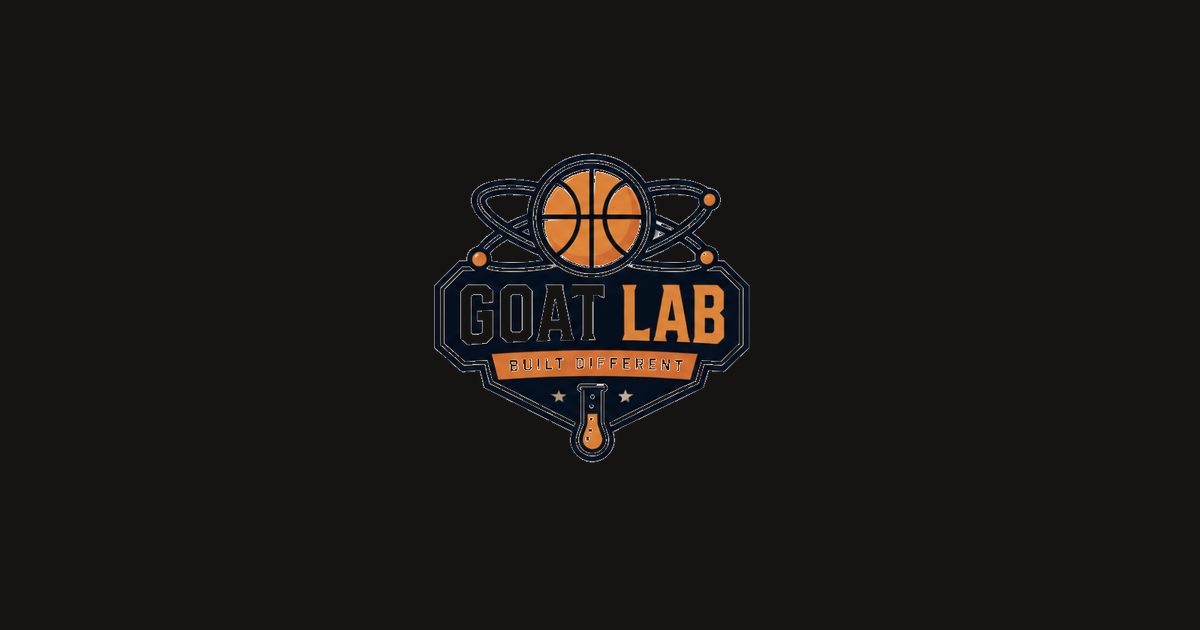
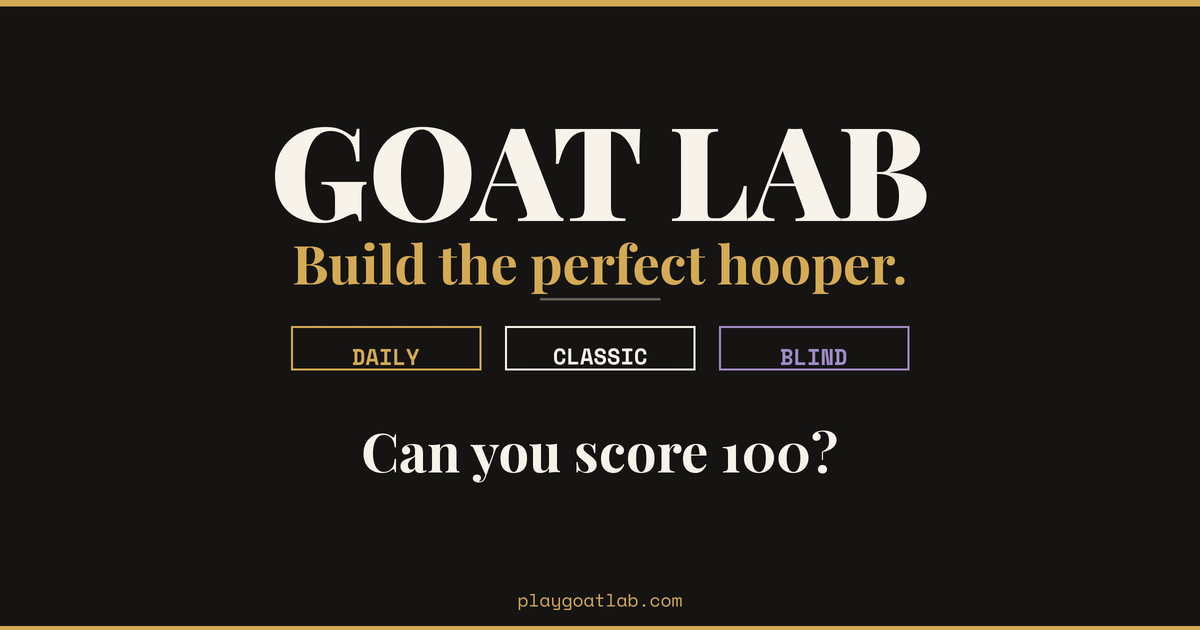
Add JSON-LD structured data for Google rich results; refresh OG image
New OG image is 1200x630, on-brand (GOAT Lab headline, tagline, mode
badges, URL). Structured data tells Google it's a free web game.

https://claude.ai/code/session_01TqfWeqToi1mCdX3gZtfGoL

diff --git a/index.html b/index.html
@@ -34,6 +34,21 @@
     <link href="https://fonts.googleapis.com/css2?family=Playfair+Display:ital,wght@0,400;0,700;0,900;1,400&family=Space+Mono:ital,wght@0,400;0,700;1,400&display=swap" rel="stylesheet" />
     <link rel="stylesheet" href="styles.css?v=5" />
     <script src="error-monitor.js"></script>
+
+    <!-- Structured data: helps Google show a richer search result -->
+    <script type="application/ld+json">
+    {
+      "@context": "https://schema.org",
+      "@type": "WebApplication",
+      "name": "GOAT Lab",
+      "url": "https://playgoatlab.com",
+      "description": "Build the perfect hooper from basketball history. Draft players across attributes and score 100 with the ultimate GOAT build.",
+      "applicationCategory": "Game",
+      "operatingSystem": "Any",
+      "offers": { "@type": "Offer", "price": "0", "priceCurrency": "USD" },
+      "publisher": { "@type": "Organization", "name": "Momentum Apps LLC" }
+    }
+    </script>
   </head>
   <body>
     <main class="shell">